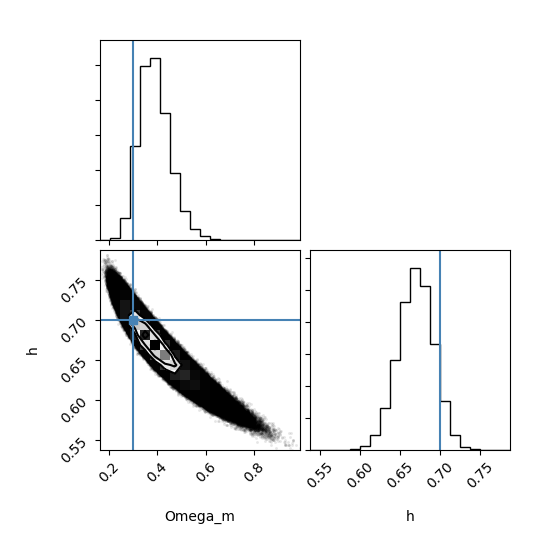
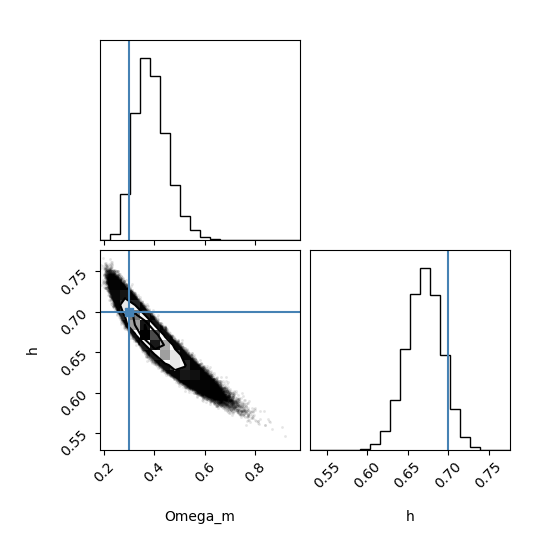
changed parallelization mcmc

diff --git a/mcmc_flatLCDM.py b/mcmc_flatLCDM.py
@@ -127,29 +127,6 @@ def log_post(params, z, D, dD):
     
     return result
 
-
-#############################
-# MCMC
-#############################
-
-# start of the MCMC
-pos = [Omega_m_ref, href]
-
-# define sampler
-def MCMC_sampler(pos, iterations):
-    nwalkers, ndim = pos.shape
-    sampler = emcee.EnsembleSampler(nwalkers, ndim, log_post, args=(z_SS, DL_SS, dDL_SS)) 
-    sampler.run_mcmc(pos, iterations, progress=False) # change progress to True if you want to see the progress bar
-
-    # info about the MCMC
-    #print("autocorrelation ",sampler.get_autocorr_time())
-    #print("acceptance fraction ", sampler.acceptance_fraction() )
-    #print("check the convergence by looking at the median of each chain")
-    #print(np.median(sampler.get_chain(discard=150, thin=10, flat=False),axis=0))
-    flat_samples = sampler.get_chain(discard=150, thin=10, flat=True)
-
-    return flat_samples
-
 ###############################
 # multiprocessing MCMC 
 ##############################
@@ -161,19 +138,38 @@ pool = mp.Pool(Nprocs)
 # number of iterations (vary according to how many samples you need for the posterior)
 iterations = 1000000
 
+#############################
+# MCMC
+#############################
+
+# start of the MCMC
+pos = [Omega_m_ref, href]
+
+# define sampler
+def MCMC_sampler(pos):
+    print("Start of the MCMC")
+    nwalkers, ndim = pos.shape
+    sampler = emcee.EnsembleSampler(nwalkers, ndim, log_post, args=(z_SS, DL_SS, dDL_SS), pool=pool) 
+    sampler.run_mcmc(pos, iterations, progress=True) # change progress to True if you want to see the progress bar
+
+    # info about the MCMC
+    #print("autocorrelation ",sampler.get_autocorr_time())
+    #print("acceptance fraction ", sampler.acceptance_fraction() )
+    #print("check the convergence by looking at the median of each chain")
+    #print(np.median(sampler.get_chain(discard=150, thin=10, flat=False),axis=0))
+    flat_samples = sampler.get_chain(discard=150, thin=10, flat=True)
+
+    return flat_samples
+
+
 # different starts for the MCMC
-input = [(pos + 1e-2 * np.random.randn(32, 2), iterations) for I in range(0, Nprocs)]
+pos = pos + 1e-2 * np.random.randn(16, 2)
 
 # output
-out = pool.starmap(MCMC_sampler, input)
-samples = out[0]
-for I in range(1,Nprocs):
-    samples = np.vstack( (samples,out[I]))
-
-#print( samples , np.shape(samples))
+out = MCMC_sampler(pos)
 
 # store samples
-flat_samples = samples
+flat_samples = out
 print("number of samples = ", len(flat_samples))
 print("median = ", np.median(flat_samples,axis=0))
 
